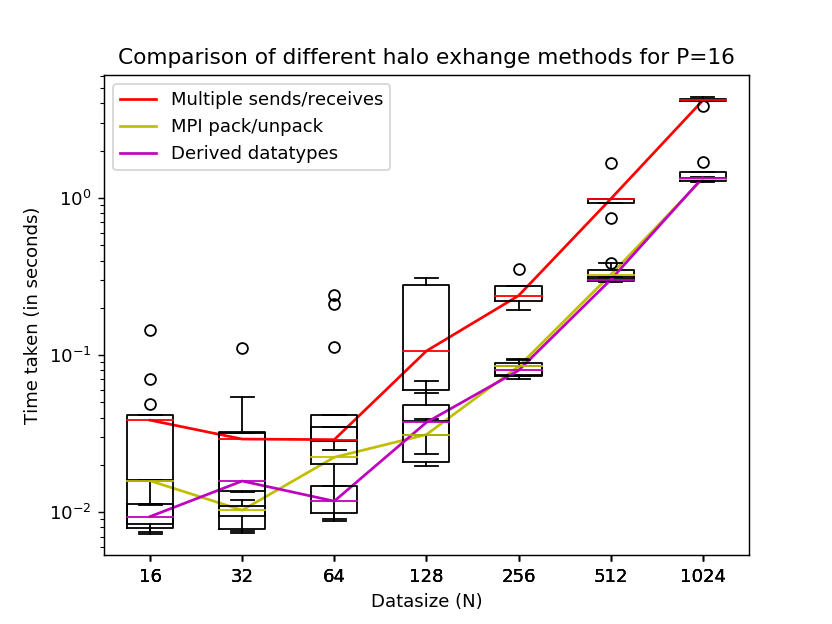
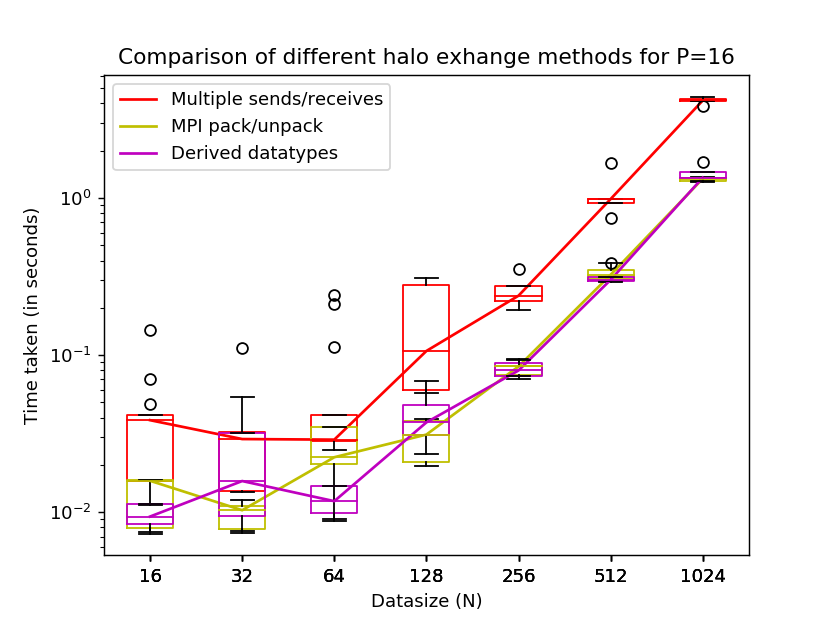
Plots

diff --git a/Assignment1/plot.py b/Assignment1/plot.py
@@ -36,13 +36,13 @@ for p in proc:
     #plt.figure(figsize=(12,8), dpi=80)
     plt.figure()
     plt.plot(range(1,len(N)+1), np.array([np.median(times) for times in opt1]),color = colors[0], label=part[0])
-    plt.boxplot(opt1, labels = N, medianprops = {'color':colors[0]})
+    plt.boxplot(opt1, labels = N, medianprops = {'color':colors[0]}, boxprops = dict(color=colors[0]))
     
     plt.plot(range(1,len(N)+1), np.array([np.median(times) for times in opt2]),color = colors[1], label=part[1])
-    plt.boxplot(opt2, labels = N, medianprops = {'color':colors[1]})
+    plt.boxplot(opt2, labels = N, medianprops = {'color':colors[1]}, boxprops = dict(color=colors[1]))
     
     plt.plot(range(1,len(N)+1), np.array([np.median(times) for times in opt3]),color = colors[2], label=part[2])
-    plt.boxplot(opt3, labels = N, medianprops = {'color':colors[2]})
+    plt.boxplot(opt3, labels = N, medianprops = {'color':colors[2]}, boxprops = dict(color=colors[2]))
     
     plt.legend()
     plt.yscale('log')
